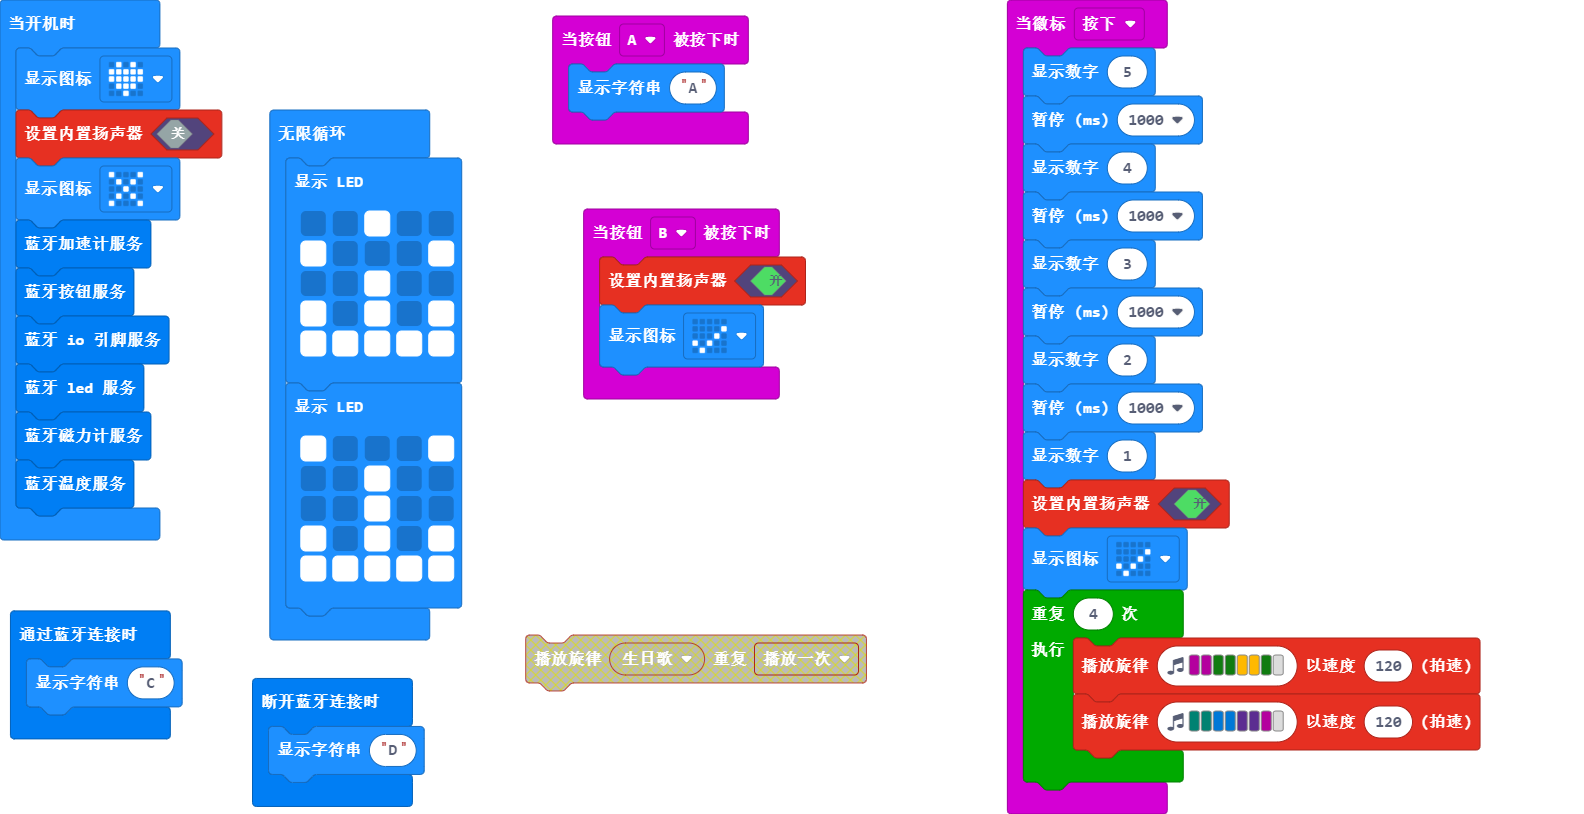
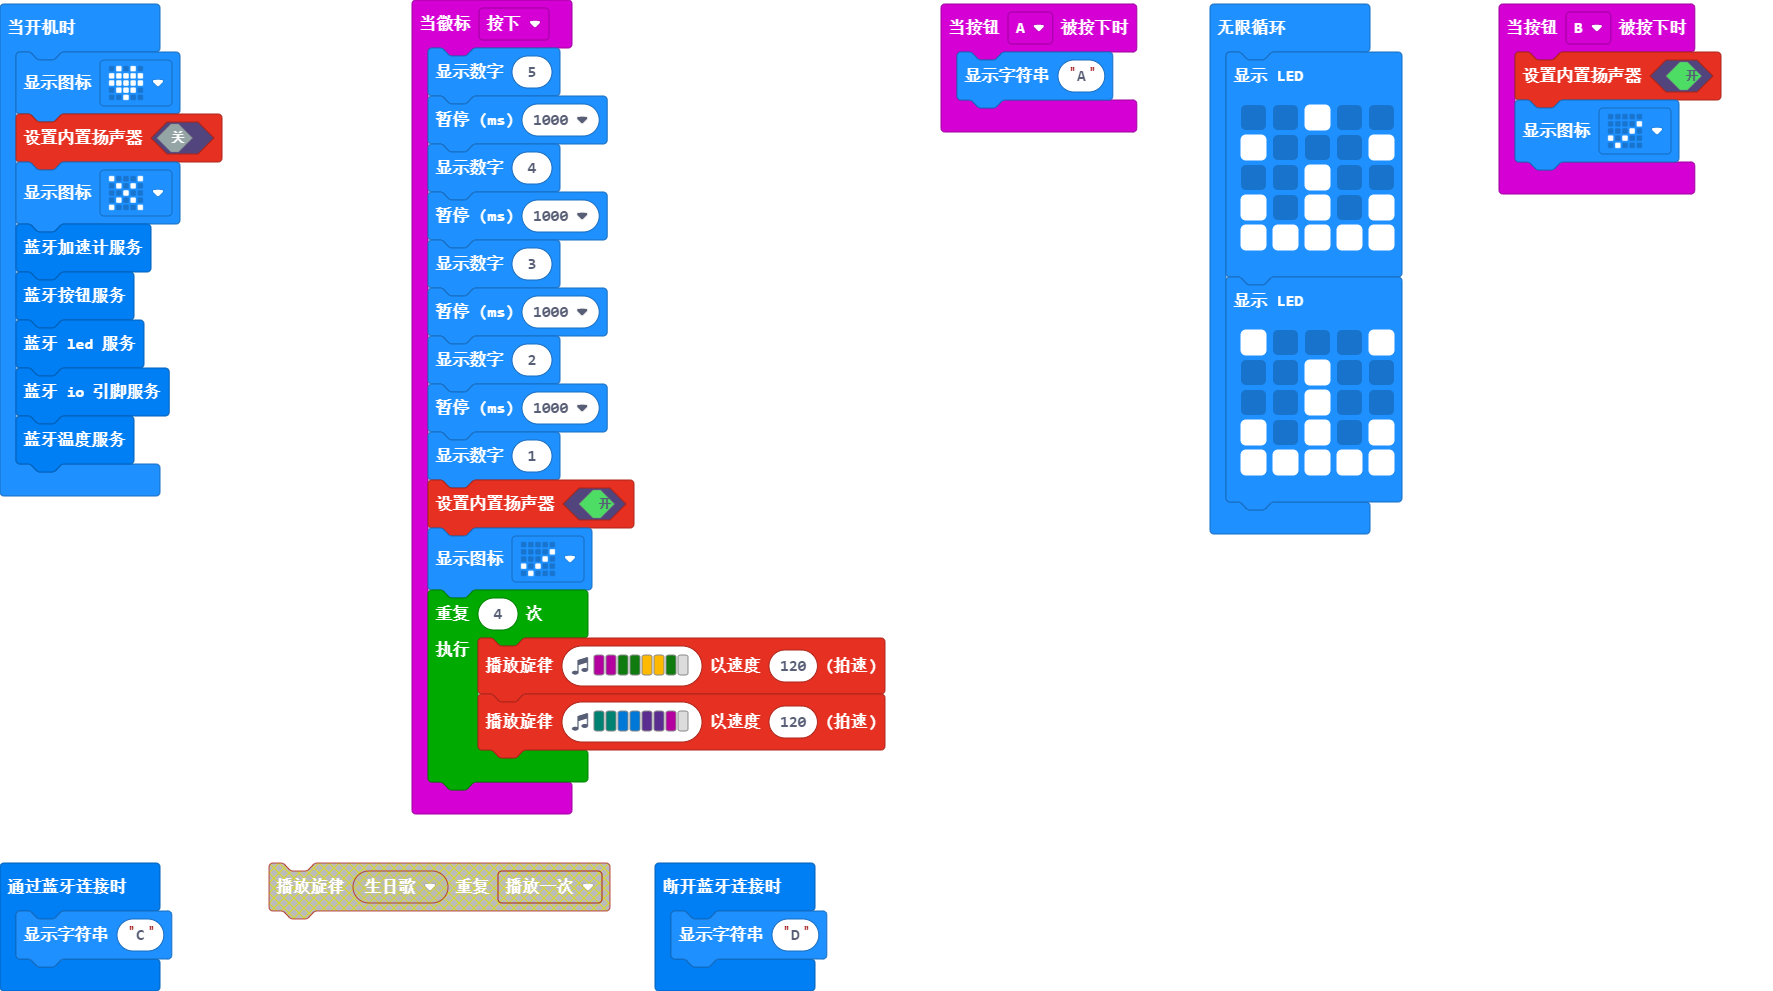
可以烧录成功的蓝牙用例（手机可以监视到AB及led的反应）

diff --git a/main.ts b/main.ts
@@ -33,9 +33,8 @@ music.setBuiltInSpeakerEnabled(false)
 basic.showIcon(IconNames.No)
 bluetooth.startAccelerometerService()
 bluetooth.startButtonService()
-bluetooth.startIOPinService()
 bluetooth.startLEDService()
-bluetooth.startMagnetometerService()
+bluetooth.startIOPinService()
 bluetooth.startTemperatureService()
 basic.forever(function () {
     basic.showLeds(`

diff --git a/main.py b/main.py
@@ -1,6 +1,13 @@
+def on_bluetooth_connected():
+    basic.show_string("C")
+bluetooth.on_bluetooth_connected(on_bluetooth_connected)
+
+def on_bluetooth_disconnected():
+    basic.show_string("D")
+bluetooth.on_bluetooth_disconnected(on_bluetooth_disconnected)
+
 def on_button_pressed_a():
-    music.start_melody(music.built_in_melody(Melodies.BIRTHDAY),
-        MelodyOptions.FOREVER)
+    basic.show_string("A")
 input.on_button_pressed(Button.A, on_button_pressed_a)
 
 def on_logo_pressed():
@@ -28,6 +35,12 @@ input.on_button_pressed(Button.B, on_button_pressed_b)
 basic.show_icon(IconNames.HEART)
 music.set_built_in_speaker_enabled(False)
 basic.show_icon(IconNames.NO)
+bluetooth.start_accelerometer_service()
+bluetooth.start_button_service()
+bluetooth.start_io_pin_service()
+bluetooth.start_led_service()
+bluetooth.start_magnetometer_service()
+bluetooth.start_temperature_service()
 
 def on_forever():
     basic.show_leds("""
